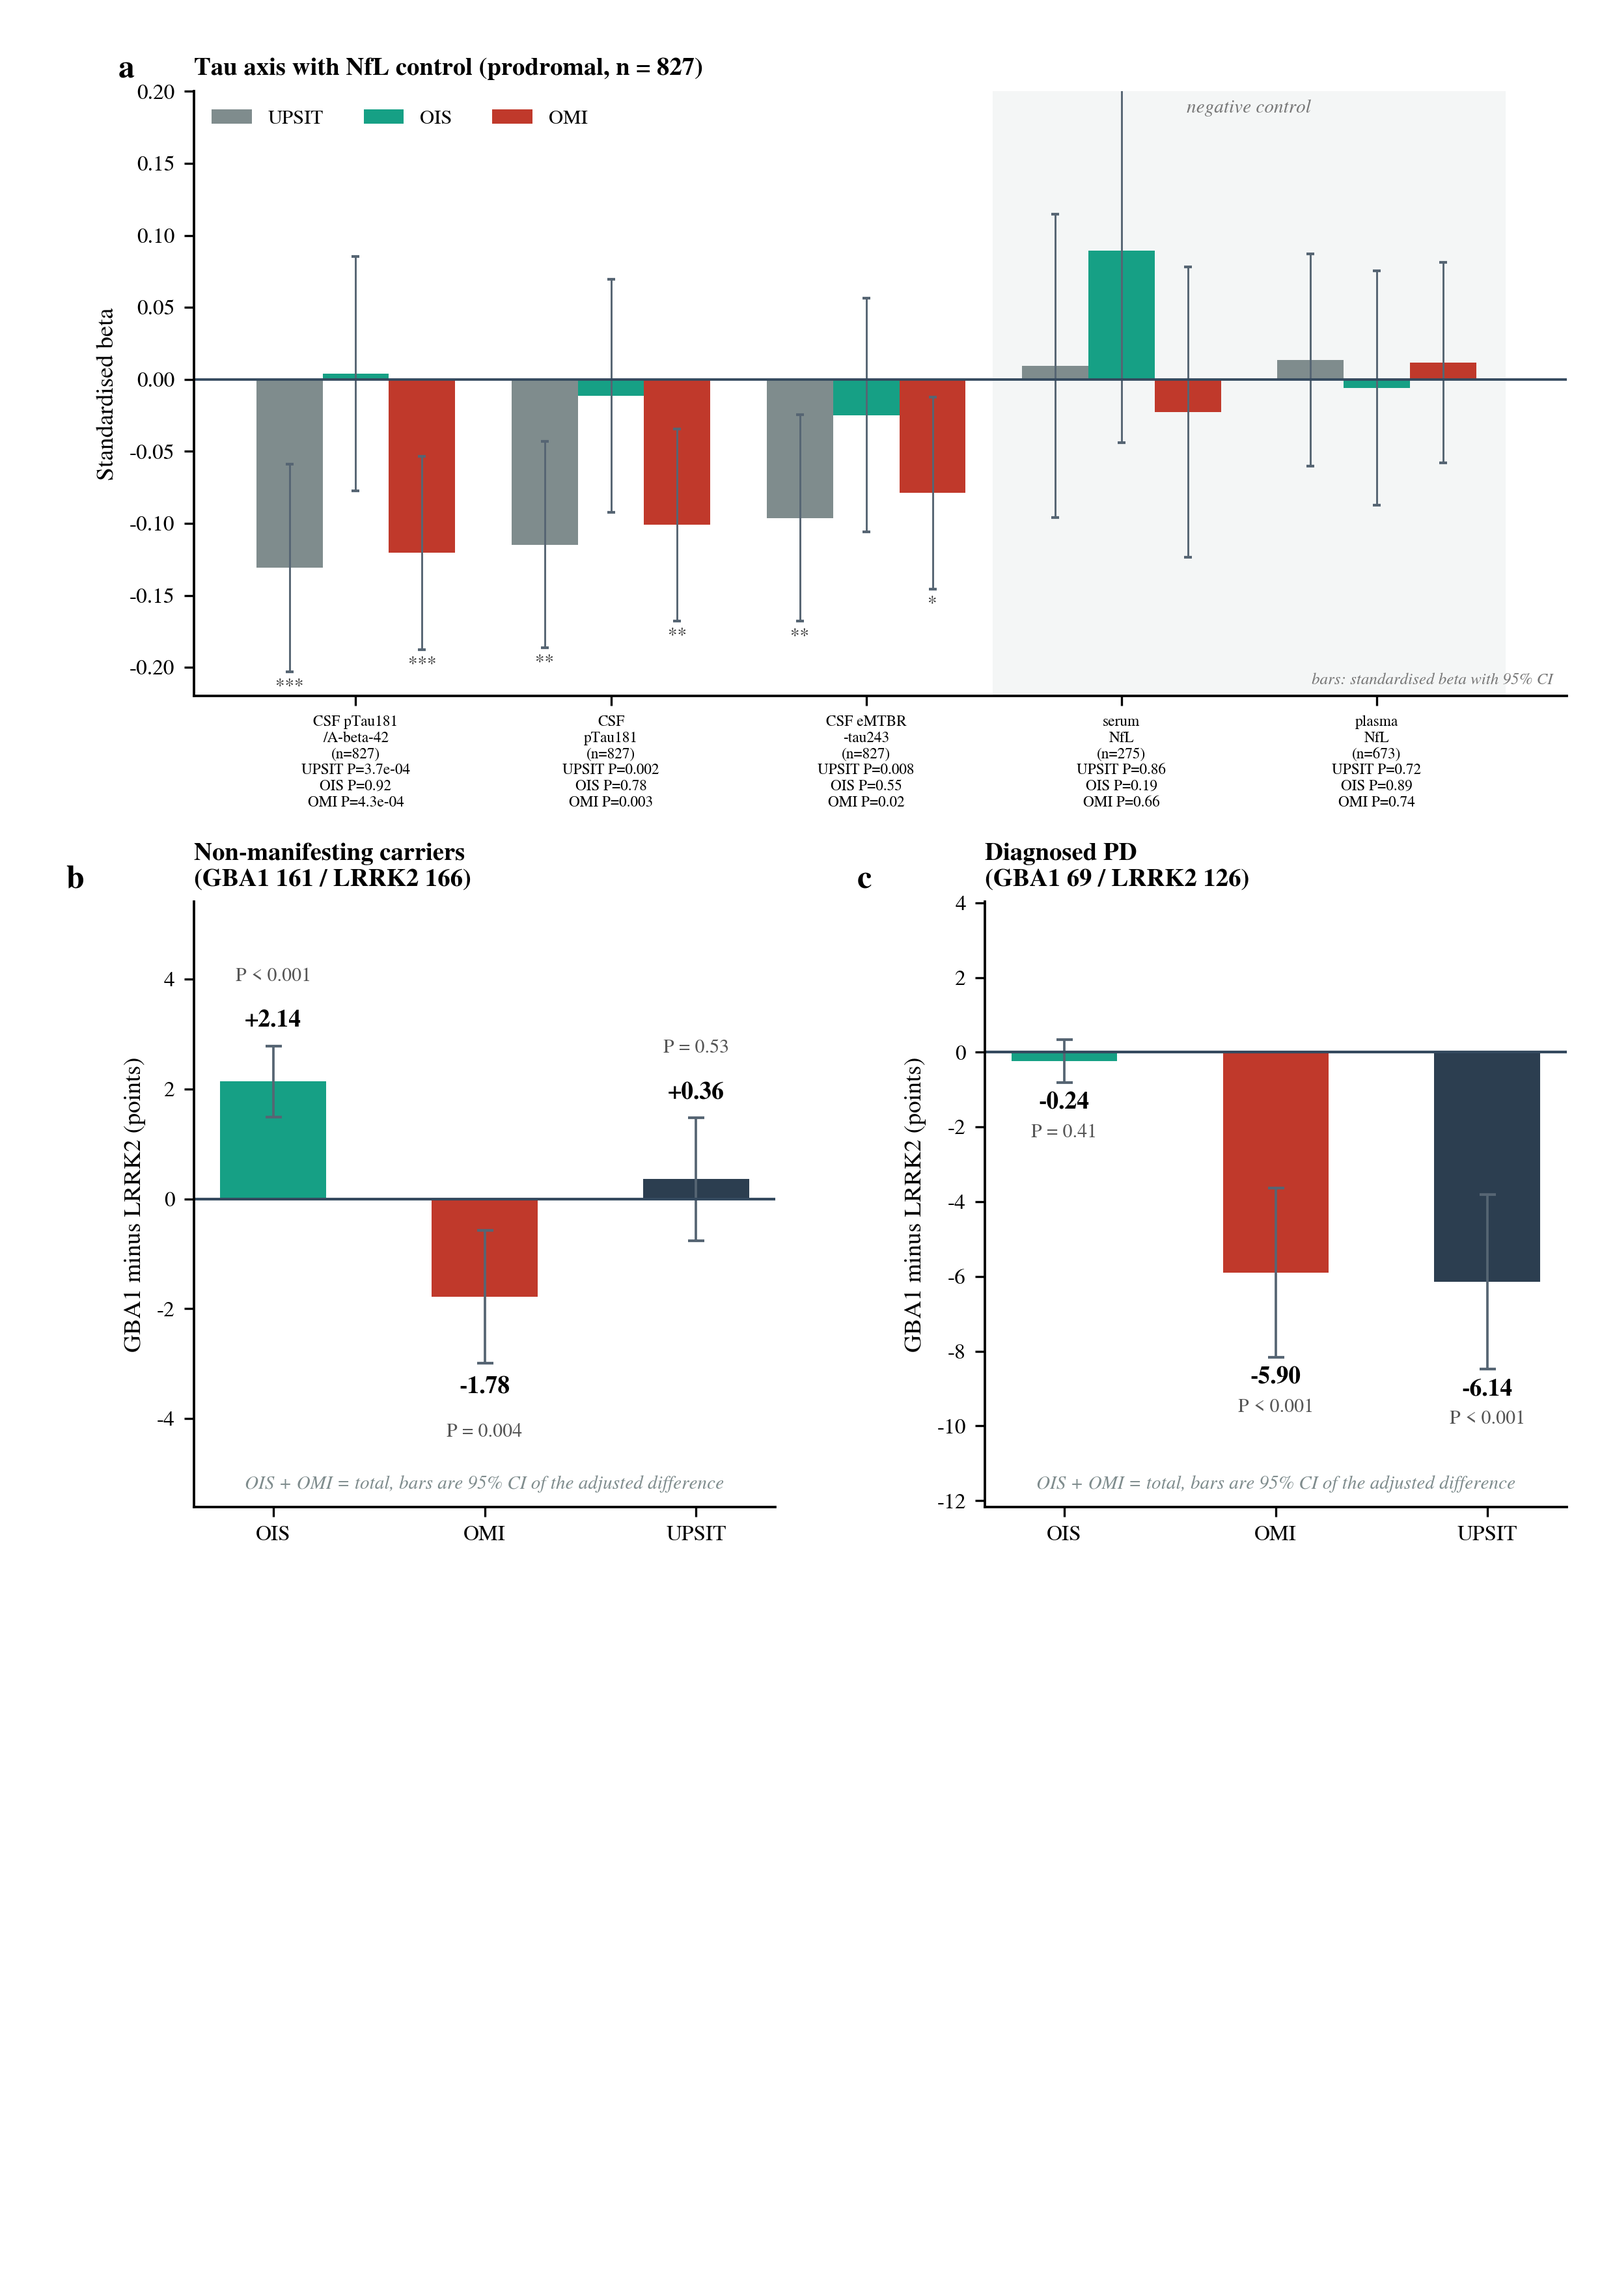
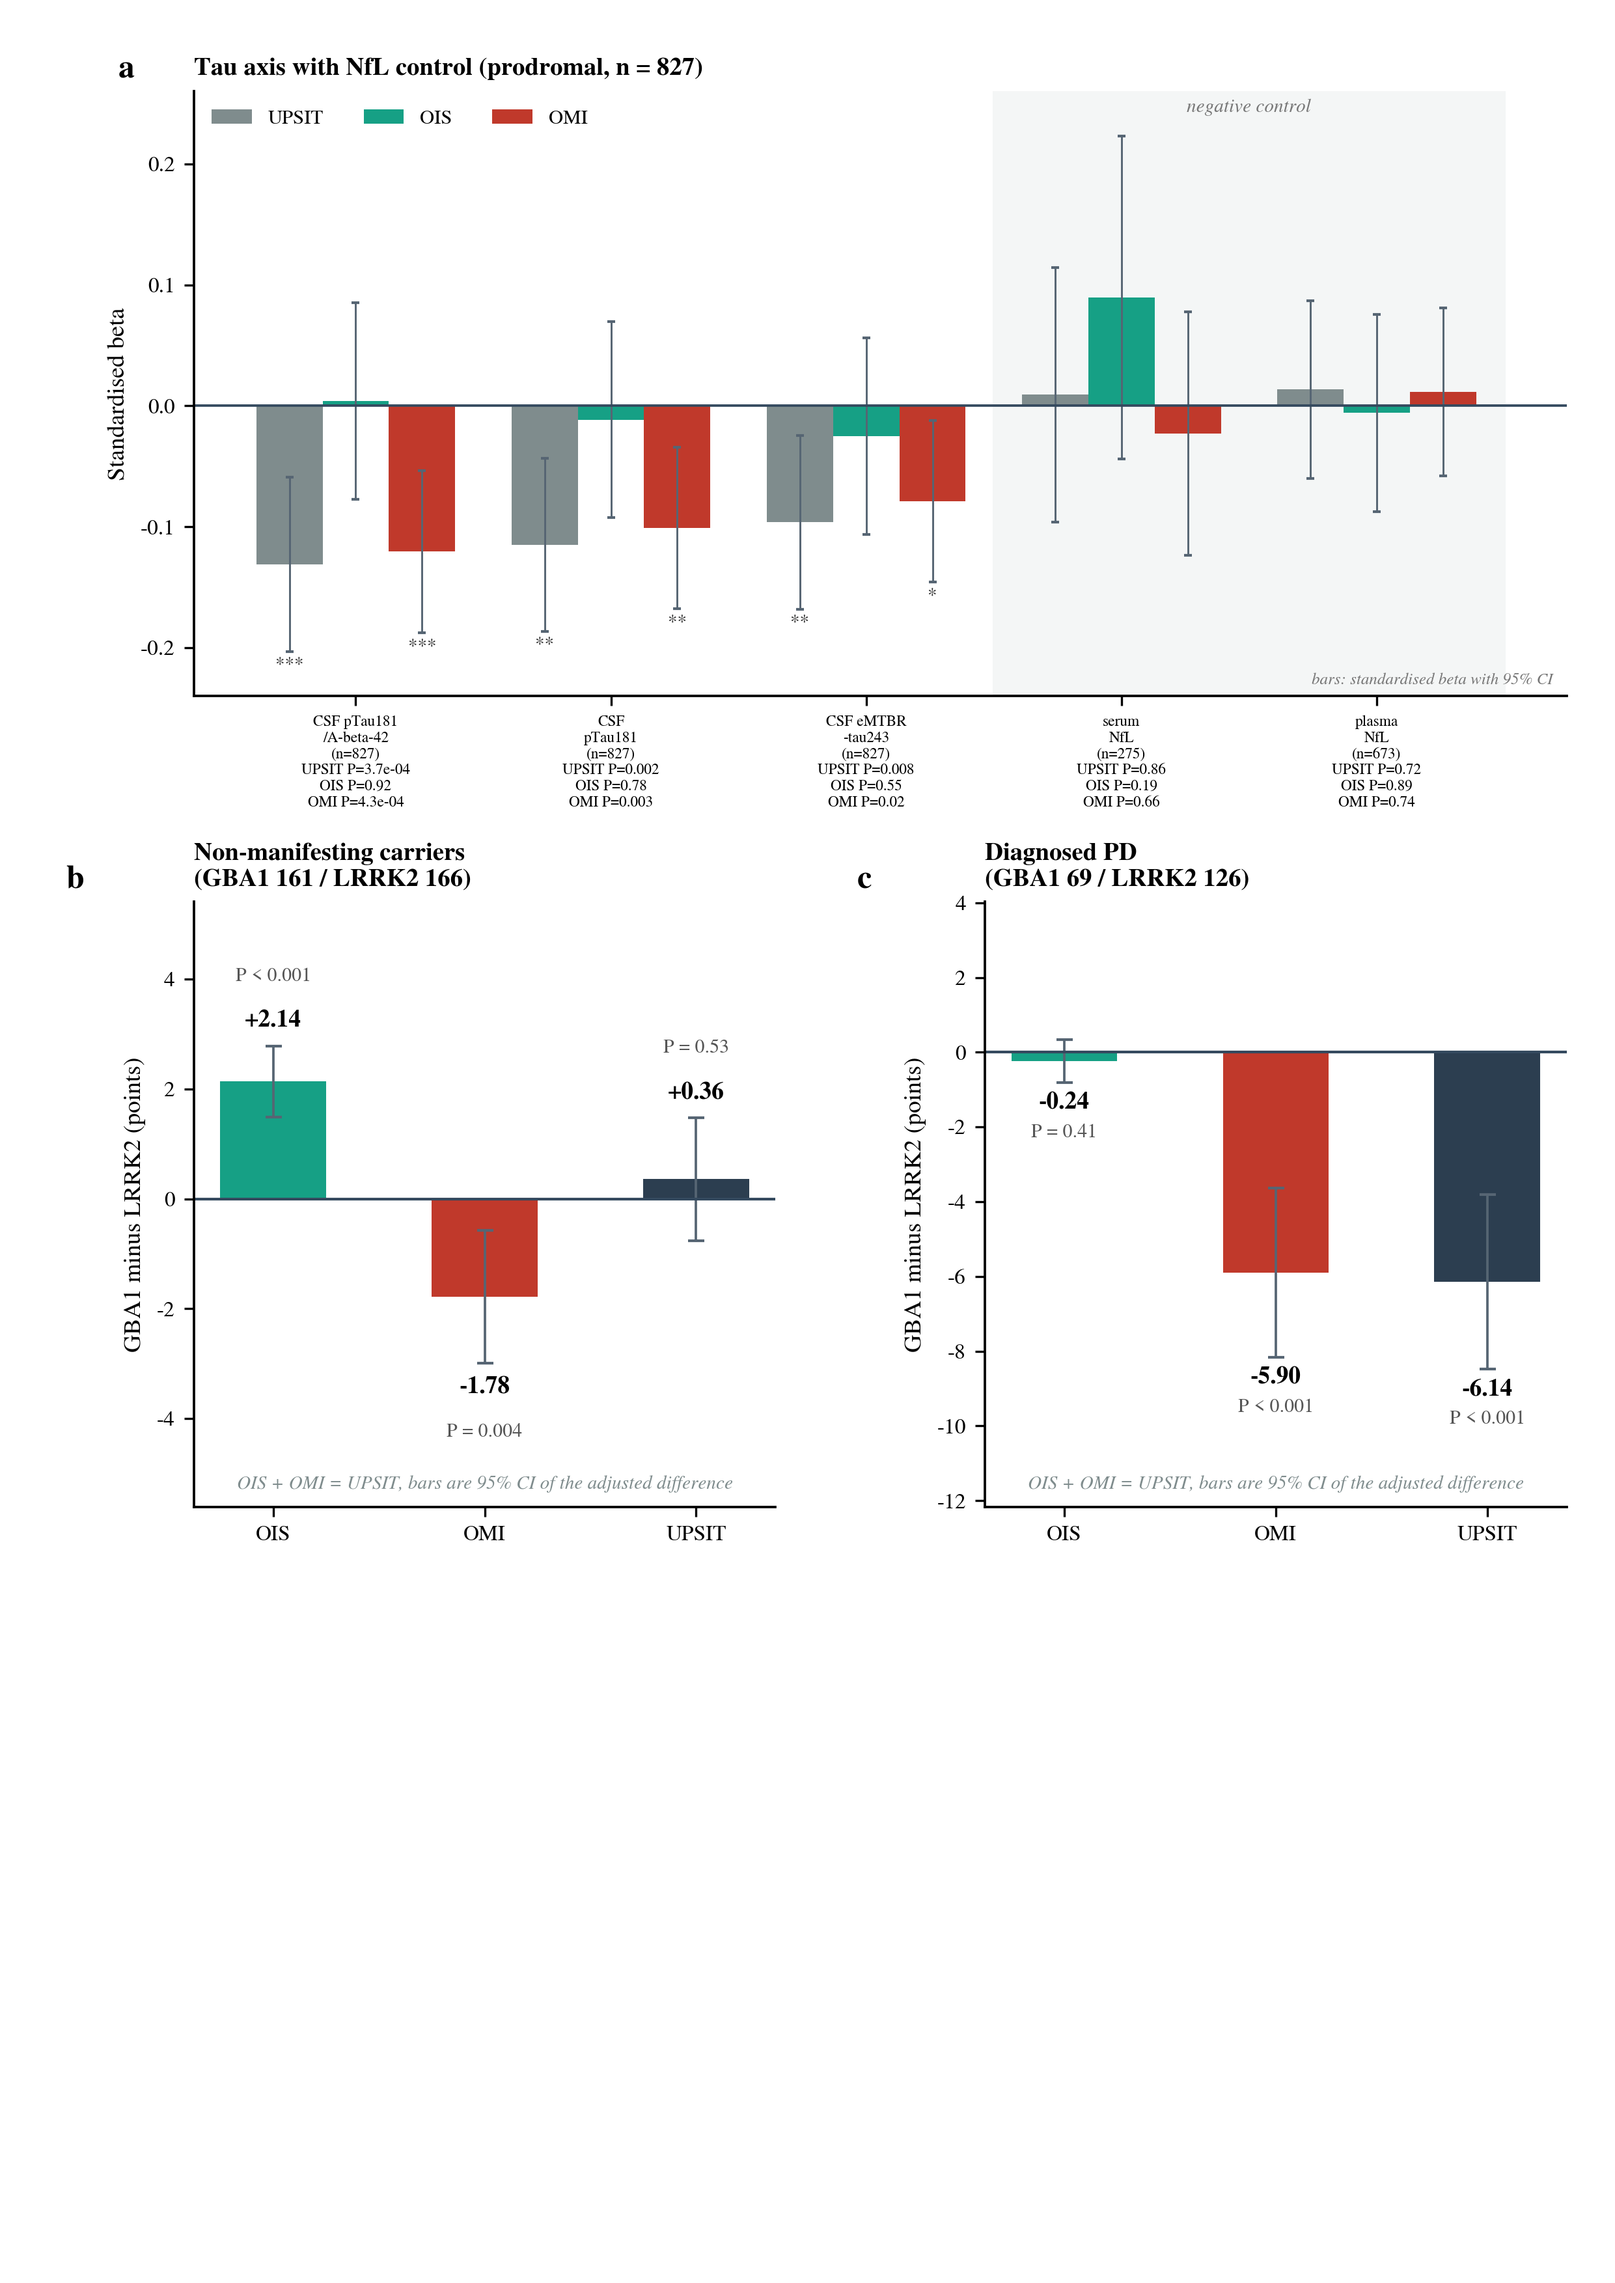
Fig 4: widen the y range so every interval is shown, note reads OIS + OMI = UPSIT

Changed region(s): [[0.3104, 0.0932, 0.9311, 0.2176], [0.1552, 0.1554, 0.2793, 0.1865], [0.0621, 0.1243, 0.1241, 0.2176]]

diff --git a/code/08_main_figures.py b/code/08_main_figures.py
@@ -385,11 +385,11 @@ def fig4():
     ax.axhline(0,c='#34495E',lw=.9); ax.set_xticks(x)
     _labs=[T('UPSIT','总分'),T('OIS','OIS'),T('OMI','残差')]
     ax.set_xticklabels([f"{l}\n(n={m[k]['n']})\n"+"\n".join(f"{lb} {_PROWS[lb][i]}" for lb in _labs) for i,(k,l) in enumerate(keys)],fontsize=5.6)
-    ax.set_ylim(-.22,.20); ax.legend(frameon=False,ncol=3,loc='upper left',fontsize=7.4,bbox_to_anchor=(0,1.0))
+    ax.set_ylim(-.24,.26); ax.legend(frameon=False,ncol=3,loc='upper left',fontsize=7.4,bbox_to_anchor=(0,1.0))
     ax.text(.99,.02,T('bars: standardised beta with 95% CI','柱:标准化系数与 95% CI'),transform=ax.transAxes,ha='right',fontsize=6,color='#777',style='italic')
     ax.set_ylabel(T('Standardised β','标准化回归系数'))
     ax.axvspan(2.5,4.5,color='#F4F6F6',zorder=0)
-    ax.text(3.5,.185,T('negative control','阴性对照'),ha='center',fontsize=7,color='#777',style='italic')
+    ax.text(3.5,.243,T('negative control','阴性对照'),ha='center',fontsize=7,color='#777',style='italic')
     panel(ax,'a',T('Tau axis with NfL control (prodromal, n = 827)',
                    'tau 轴与 NfL 对照(前驱期,n=827)'),dx=-.055)
     # c 基因型抵消
@@ -410,7 +410,7 @@ def fig4():
         ax.axhline(0,c='#34495E',lw=1)
         lo,hi=min(v[1]['lo'] for v in vals),max(v[1]['hi'] for v in vals)
         pad=(hi-lo)*.35+.6; ax.set_ylim(lo-pad,hi+pad)
-        ax.text(.5,.03,T('OIS + OMI = total; bars are 95% CI of the adjusted difference','OIS + 残差 = 总分;误差线为校正后差值的 95% CI').replace('; ',', ').replace(';',','),transform=ax.transAxes,ha='center',
+        ax.text(.5,.03,T('OIS + OMI = UPSIT; bars are 95% CI of the adjusted difference','OIS + OMI = UPSIT;误差线为校正后差值的 95% CI').replace('; ',', ').replace(';',','),transform=ax.transAxes,ha='center',
                 fontsize=7,style='italic',color=GREY)
         ax.set_ylabel(T('GBA1 minus LRRK2 (points)','GBA1 减 LRRK2(分)'))
         panel(ax,'b' if k==0 else 'c', f'{ttl}\n({nn})',dx=-.22)
